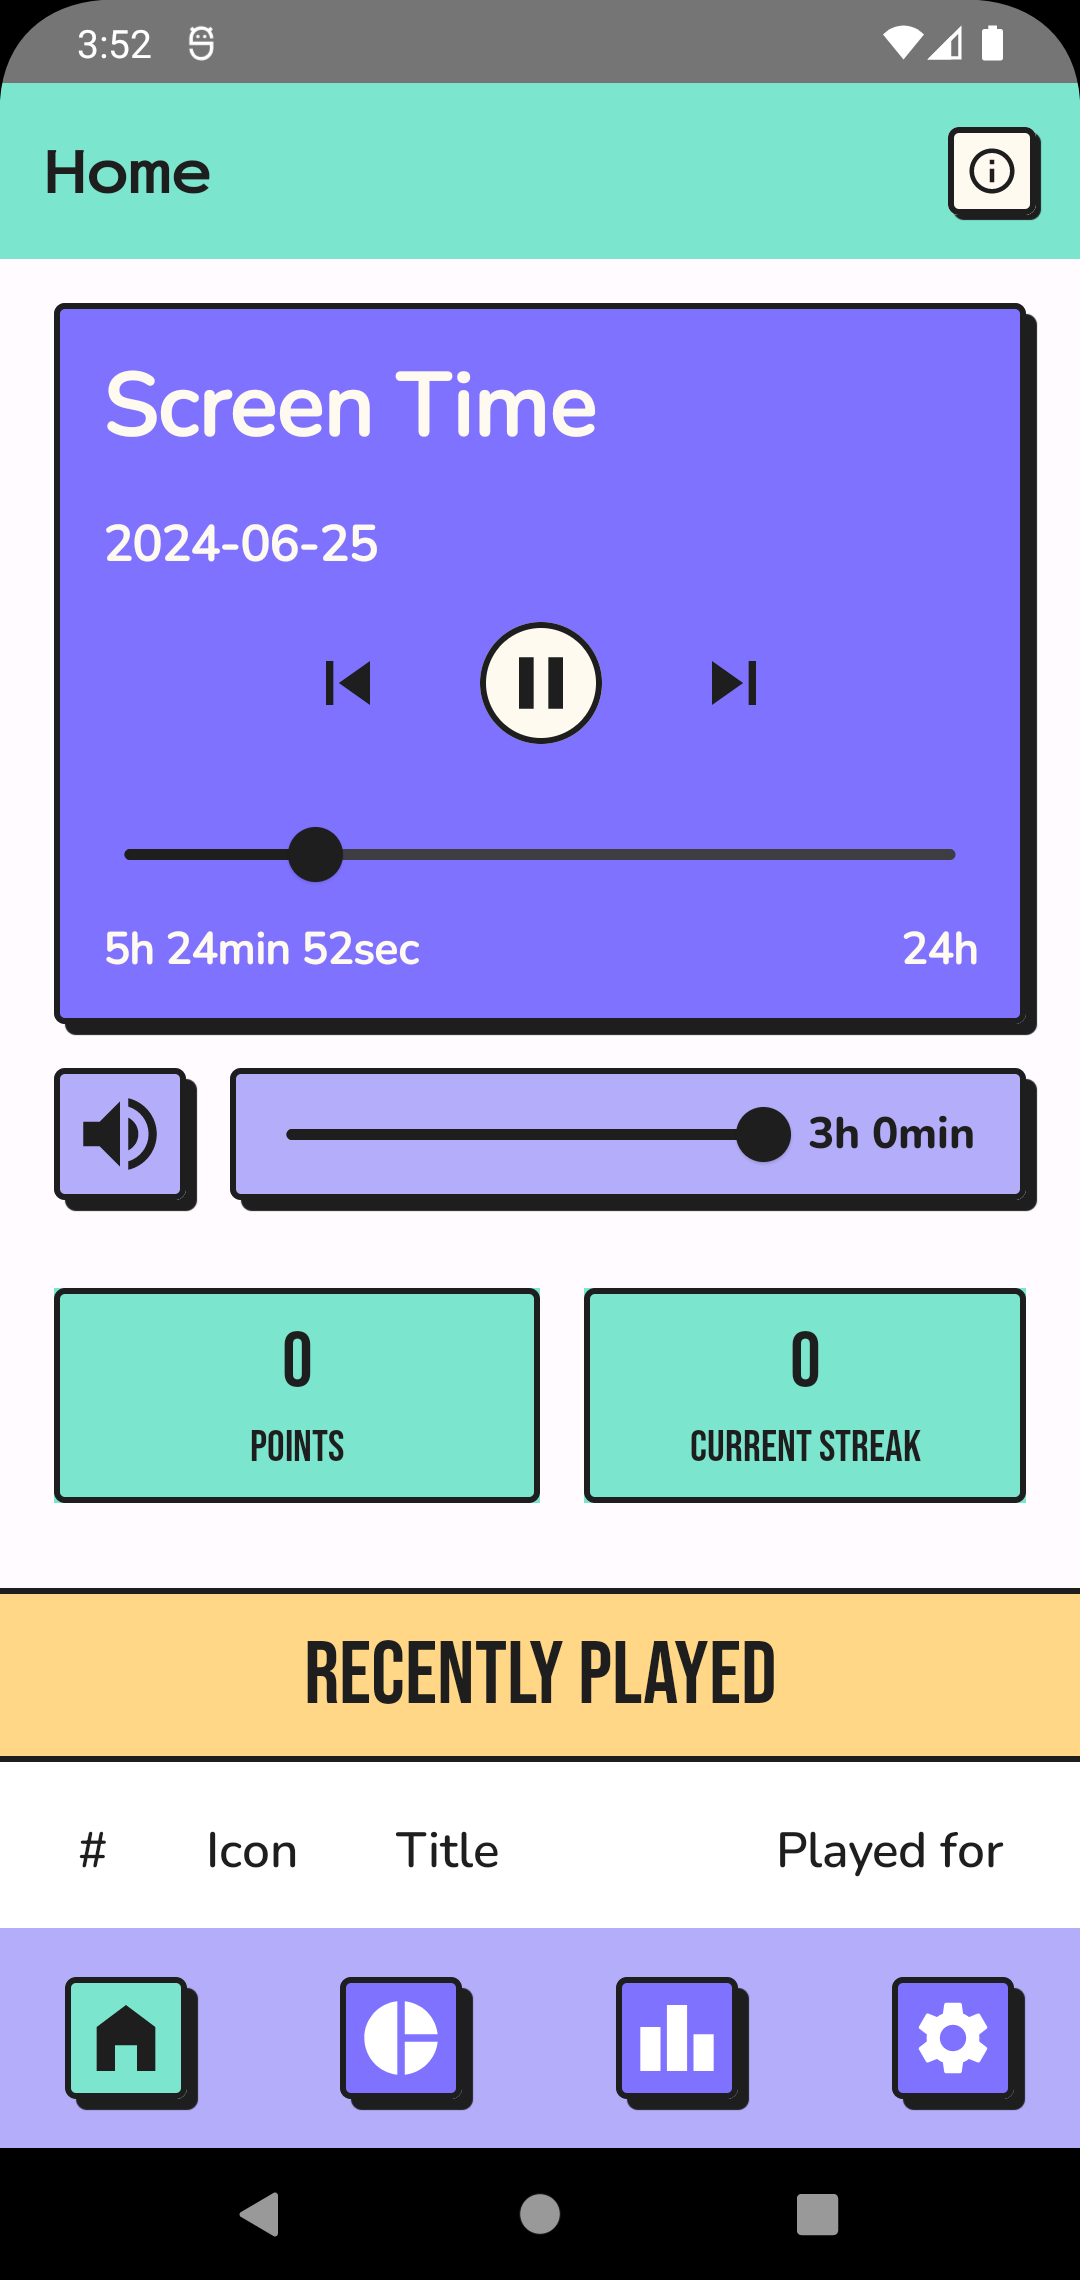
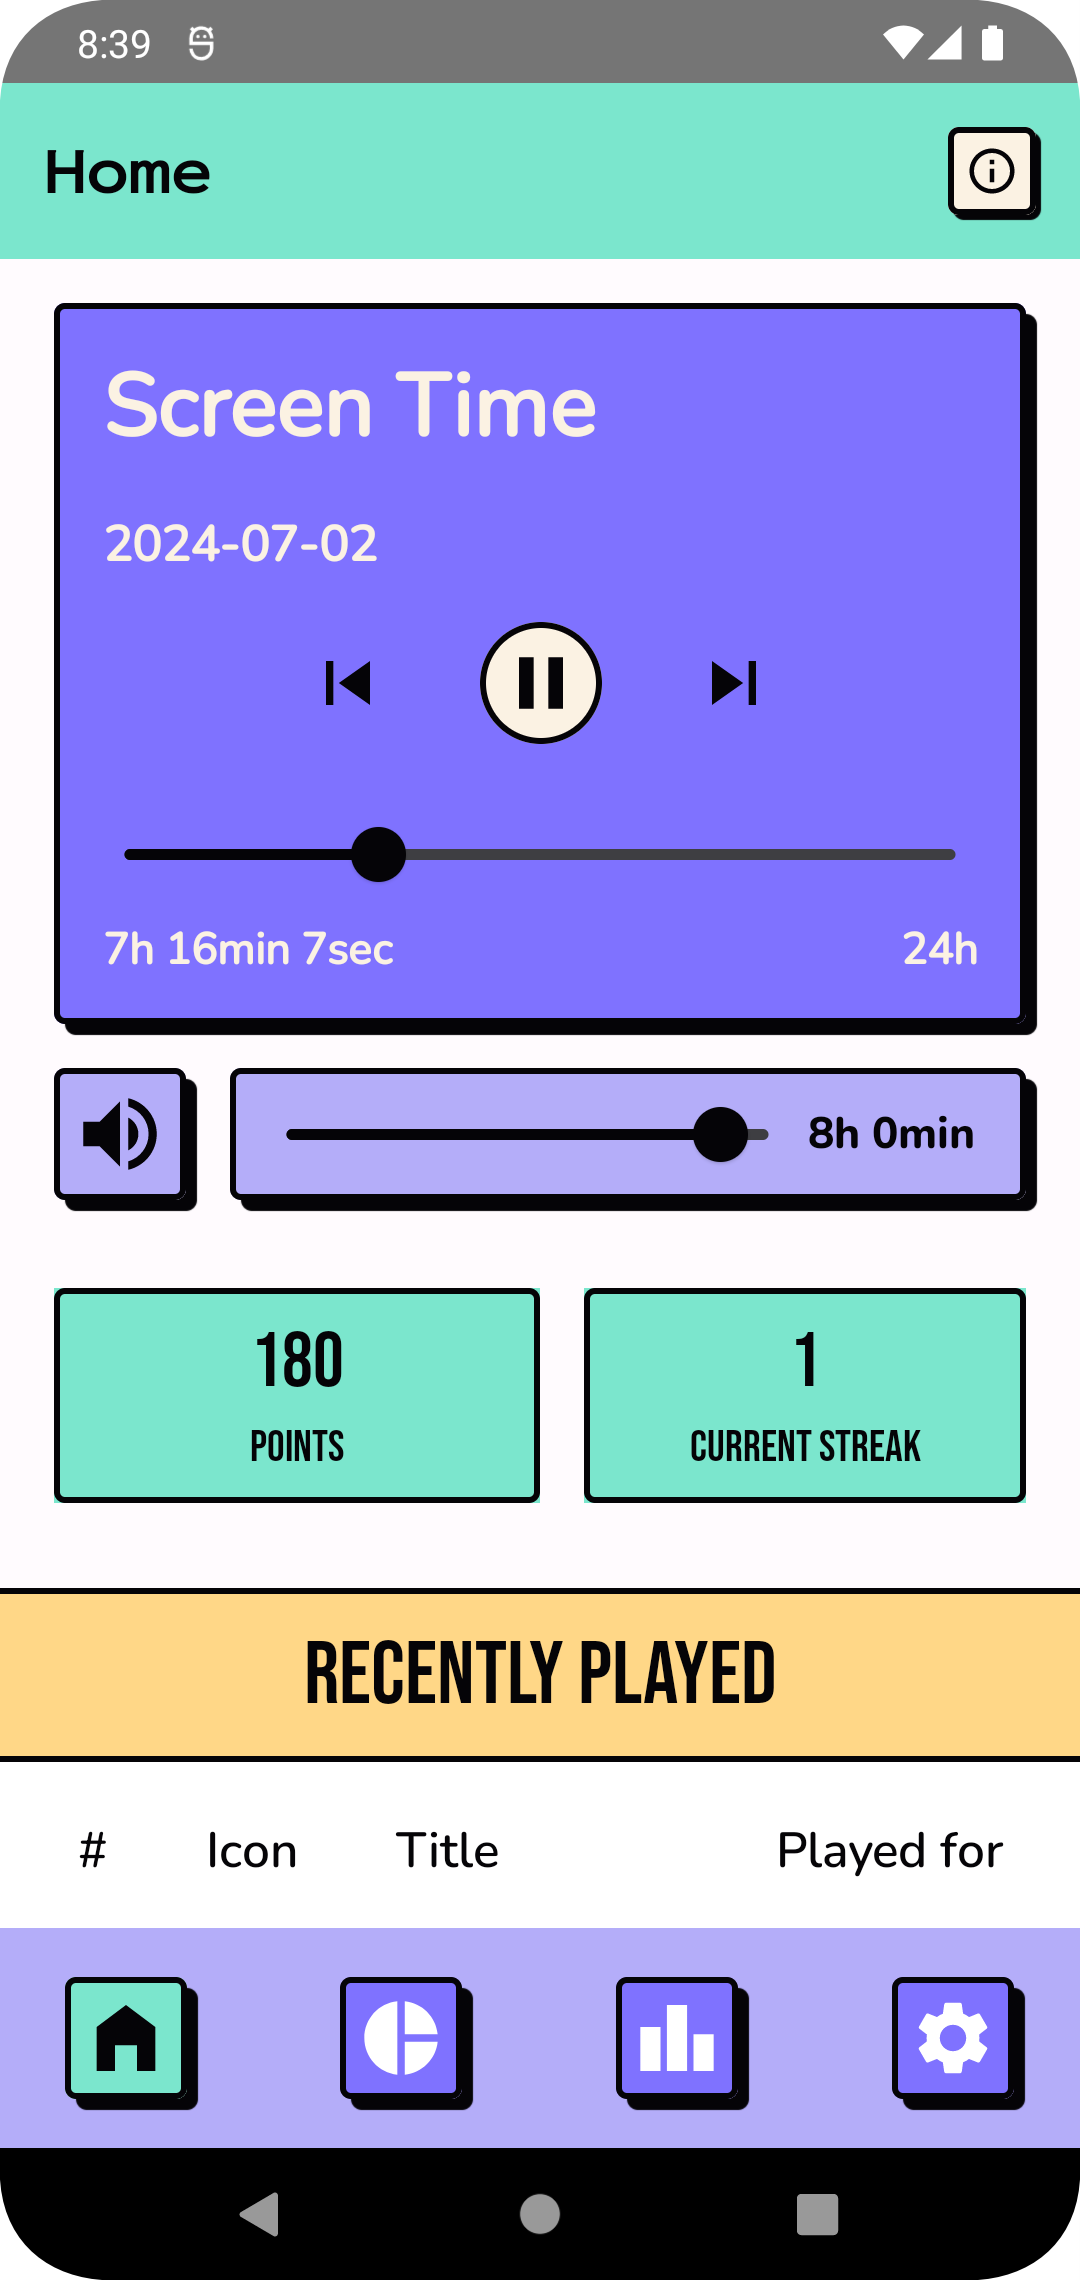
Update color palette and screenshots

diff --git a/app/src/main/java/com/example/julie/ui/theme/NeubrutalismUtilities.kt b/app/src/main/java/com/example/julie/ui/theme/NeubrutalismUtilities.kt
@@ -13,13 +13,13 @@ import androidx.compose.ui.graphics.toArgb
 import androidx.compose.ui.unit.Dp
 import androidx.compose.ui.unit.dp
 
-val backgroundColor = Color(0xFFFFFAF0)
+internal val backgroundColor = Color(0xFFFBF2E3)
 
-val textColor = Color(0xFF1E1E1E)
+internal val textColor = Color(0xFF050407)
 
-fun Modifier.neubrutalismElevation(
-    backgroundColor: Color = Color.White,
-    shadowColor: Color = Color(0xFF1E1E1E),
+internal fun Modifier.neubrutalismElevation(
+    backgroundColor: Color = Color(0xFFFBF2E3),
+    shadowColor: Color = Color(0xFF050407),
     alpha: Float = 1f,
     borderWidth: Dp = 2.dp,
     cornersRadius: Dp = 4.dp,
